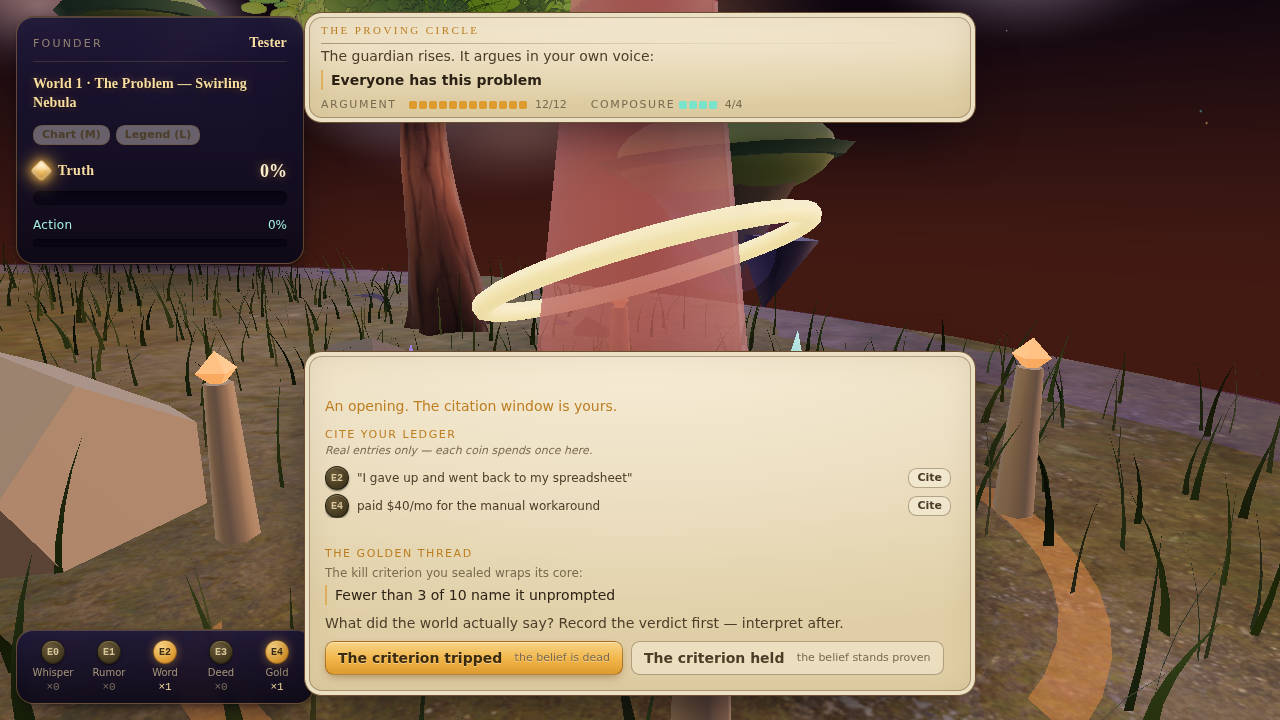
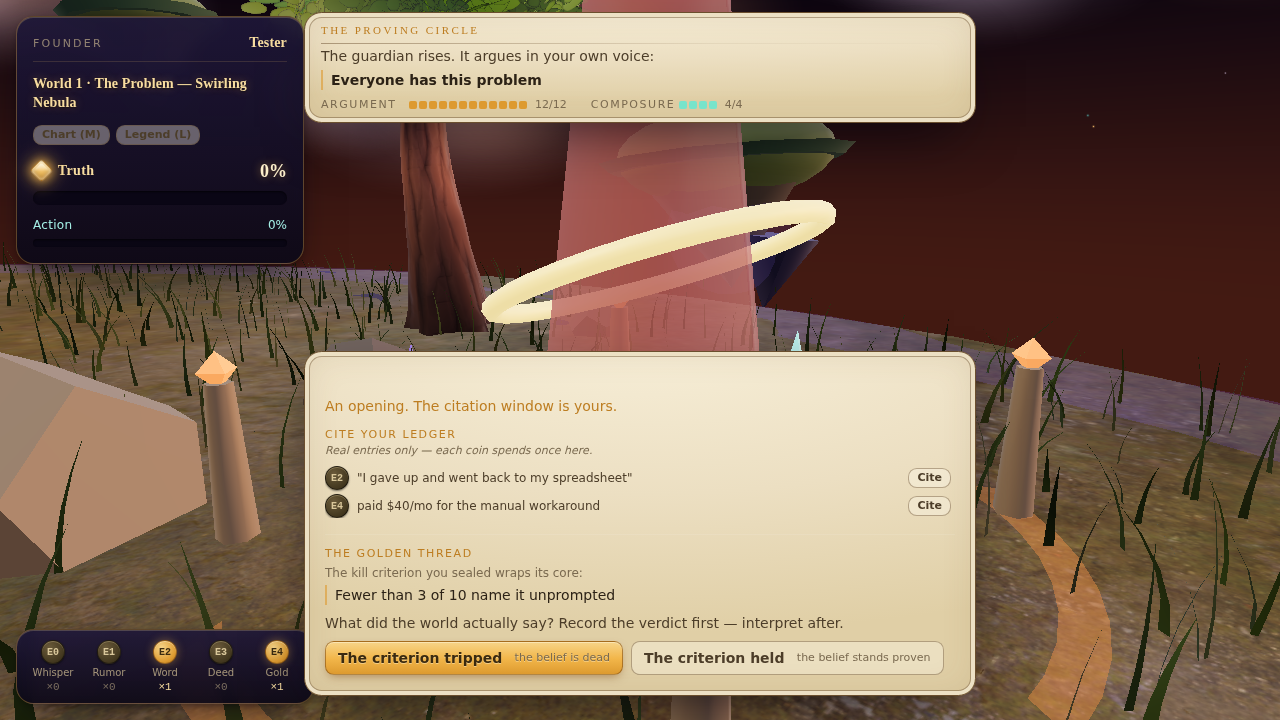
docs(E-0): close — a4 pack recaptured proving camera framing + typography
The thread-ignited shot now frames the arena itself (ember ring, braziers,
thread torus) with the crafted eyebrow rules and clean ledger rhythm in
frame. E-0 checked off in BACKLOG with the full shipped list; chip edge
clamping recorded against E-9.

Claude-Session: https://claude.ai/code/session_01UFJa723wYSYSvVZLJAAPCy

diff --git a/BACKLOG.md b/BACKLOG.md
@@ -109,7 +109,16 @@ composed places, centrepieces, silhouette language, lighting doing emotional
 work, world REACTS to dramatic beats (the feel audit's #1 systemic gap: every
 celebration is currently a parchment panel over an inert backdrop).
 
-- [ ] **E-0 · Shared groundwork:** capture-tier fix (P0-4) · panel
+- [x] **E-0 · Shared groundwork (2026-07-11):** DONE — capture-tier fix +
+  packs recaptured (P0-4) · panel typography pass (eyebrow rule on every
+  surface; a4/04 counter-contrast + a3/07 legend scroll fixed; chip edge
+  clamping deferred to E-9, recorded) · camera language (arena/ego framing +
+  rite vigil rise, reduced-motion cut preserved) · celebration staging
+  framework (CelebrationFx: shatter/pillar/funeral/integration beats staged
+  in-world) · weather→sky tint (display-only, W1 byte-pinned, unit-tested) ·
+  rogue.glb 3.6MB→186KB · bundle split (app 227KB + engine shelves). DOF/post
+  already tier-gated (PostFx full-tier only); finer DOF rides the world
+  passes. Original scope: capture-tier fix (P0-4) · panel
   material/typography pass across every DOM surface (diegetic stone/parchment
   craft, spacing, ghost-text overlap fix a4/04, tooltip edge-clipping) ·
   camera transition language (world-gate crossing dolly, arena entry, rite